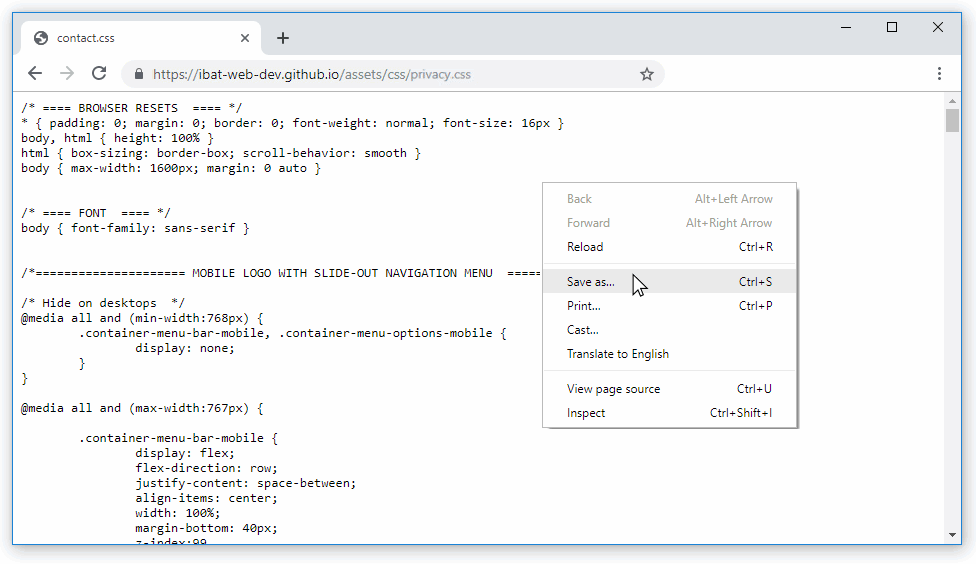
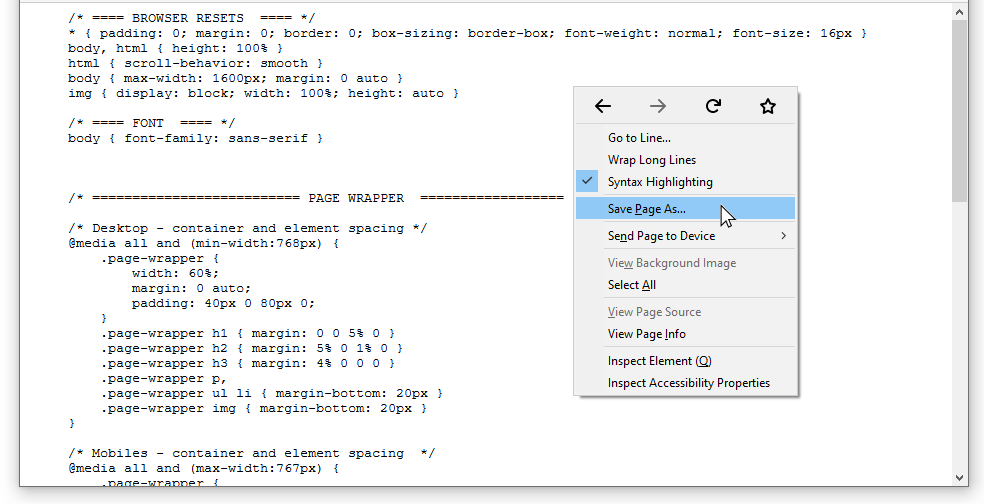
Updates to Privacy project

diff --git a/webdev/projects/project-privacy/index.html b/webdev/projects/project-privacy/index.html
@@ -61,15 +61,15 @@ height="0" width="0" style="display:none;visibility:hidden"></iframe></noscript>
 <section class="block-content">
 	<div class="box-toc">
 		<h2>Contents</h2>
-		<p><a href="#project-folders"><b>Create the project folder and sub-folders</b></a></p>
-		<p><a href="#download-html"><b>Download the HTML file</b></a></p>
-		<p><a href="#download-css"><b>Download the CSS file</b></a></p>
-		<p><a href="#meta-tags"><b>Update the meta tags</b></a></p>
-		<p><a href="#google-analytics"><b>Update the Google Analytics Tracking ID</b></a></p>
-		<p><a href="#validate-html"><b>Validate your HTML file</b></a></p>
-		<p><a href="#validate-css"><b>Validate your CSS file</b></a></p>
-		<p><a href="#publish-github"><b>Upload your files to GitHub</b></a></p>
-		<p><a href="#privacy-pop-up-code"><b>Creating the privacy &#8216;pop-up&#8127; message</b></a></p>
+		<p><a href="#project-folders">Project folder</a></p>
+		<p><a href="#download-html">Download the HTML file</a></p>
+		<p><a href="#download-css">Download the CSS file</a></p>
+		<p><a href="#meta-tags">Update the meta tags</a></p>
+		<p><a href="#google-analytics">Update the Google Analytics Tracking ID</a></p>
+		<p><a href="#validate-html">Validate your HTML file</a></p>
+		<p><a href="#validate-css">Validate your CSS file</a></p>
+		<p><a href="#publish-github">Upload your files to GitHub</a></p>
+		<p><a href="#privacy-pop-up-code">Creating the privacy &#8216;pop-up&#8127; message</a></p>
 	</div>
 </section>
 
@@ -88,15 +88,22 @@ height="0" width="0" style="display:none;visibility:hidden"></iframe></noscript>
 	<h2>Download the HTML file</h2>
 	<p>Follow these steps to download the HTML file to your <b>websites</b> folder.</p>
 	<ol>
-		<li>Go to the HTML file at this web address:<span class="inside-ol">&nbsp;</span>
-		<a href="https://ibat-web-dev.github.io/privacy/basic/privacy.html" target="_blank">https://ibat-web-dev.github.io/privacy/basic/privacy.html</a></li>
+		<li>Go to the HTML file for the privacy web page at this web address:
+		<span class="inside-ol">&nbsp;</span>
+		<a href="https://ibat-web-dev.github.io/privacy/basic/privacy.html" target="_blank">https://ibat-web-dev.github.io/privacy/basic/privacy.html</a>
+		
+		</li>
 		<li>Right-click anywhere on the page (except on an image) and choose <b>View page source</b> (Chrome or Mozilla Firefox).</li>
+		
 		<li>Right-click on the displayed text and choose <b>Save as&#8230;</b> (Chrome) or <b>Save Page As&#8230;</b> (Mozilla Firefox).
 		<IMG SRC="assets/img/home-html-save-as.png"  alt="Project Privacy"></li>
+		
 		<li>In the <b>File name:</b> box, change the name of the file to <b>privacy.html</b>.
 		<IMG SRC="assets/img/home-html-save-name.png"  alt="Project Privacy"></li>
+		
 		<li>In the <b>Save as type:</b> dropdown list, change from the default value <b>Webpage, Complete</b> to <b>Web Page, HTML Only</b>.
 		<IMG SRC="assets/img/home-html-save-type.png"  alt="Project Privacy"></li>
+		
 		<li>Save the file as <b>privacy.html</b> file in your <b>C:\websites</b> folder.</li>
 	</ol>
 </section>
@@ -106,17 +113,28 @@ height="0" width="0" style="display:none;visibility:hidden"></iframe></noscript>
 
 	<h2>Download the CSS file</h2>
 	<p>You will now download the CSS file to your <b>websites</b> folder.</p>
+
 	<ol>
-		<li>In your web browser, open the CSS file at this web address:
+	<li>Go to the HTML file for the privacy web page at this web address:
+		
 		<span class="inside-ol">&nbsp;</span>
-		
-		<a href="https://ibat-web-dev.github.io/privacy/basic/privacy.css" target="_blank">https://ibat-web-dev.github.io/privacy/basic/privacy.css</a>
-		
-		<span class="inside-ol">&nbsp;</span></li>
+
+		<a href="https://ibat-web-dev.github.io/privacy/basic/privacy.html" target="_blank">https://ibat-web-dev.github.io/privacy/basic/privacy.html</a></li>
+
+		<li>Right-click anywhere on the page and, from the pop-up menu displayed, choose <b>View page source</b> (Chrome or Mozilla Firefox).</li>
+
+		<li>In the source code of the web page, click the link to the stylesheet file named <b>privacy.css</b>.
+		<IMG SRC="assets/img/home-css-click.png" class="img-fluid" alt="Project Contact">
+		<span class="inside-ol">&nbsp;</span>
+		The CSS file now opens in a new tab of your web browser.</li>
 		<li>Right-click on the displayed CSS file and choose <b>Save as&#8230;</b> (Chrome) or <b>Save Page As&#8230;</b> (Mozilla Firefox).
 		<IMG SRC="assets/img/home-html-save-css-file.png"  alt="Project Privacy"></li>
-		<li>Save the <b>privacy.css</b> file in your <b>C:\websites</b> folder.
+		<li>Save the <b>privacy.css</b> file in your <b>C:\websites</b> folder.</li>
 	</ol>
+
+<p>Your main <b>websites</b> folder should now contain the two files named <b>privacy.html</b> and <b>privacy.css</b> as shown below.</p>
+
+	<IMG SRC="assets/img/file-explorer-full.png"  alt="Project Privacy">
 
 </section>
 
